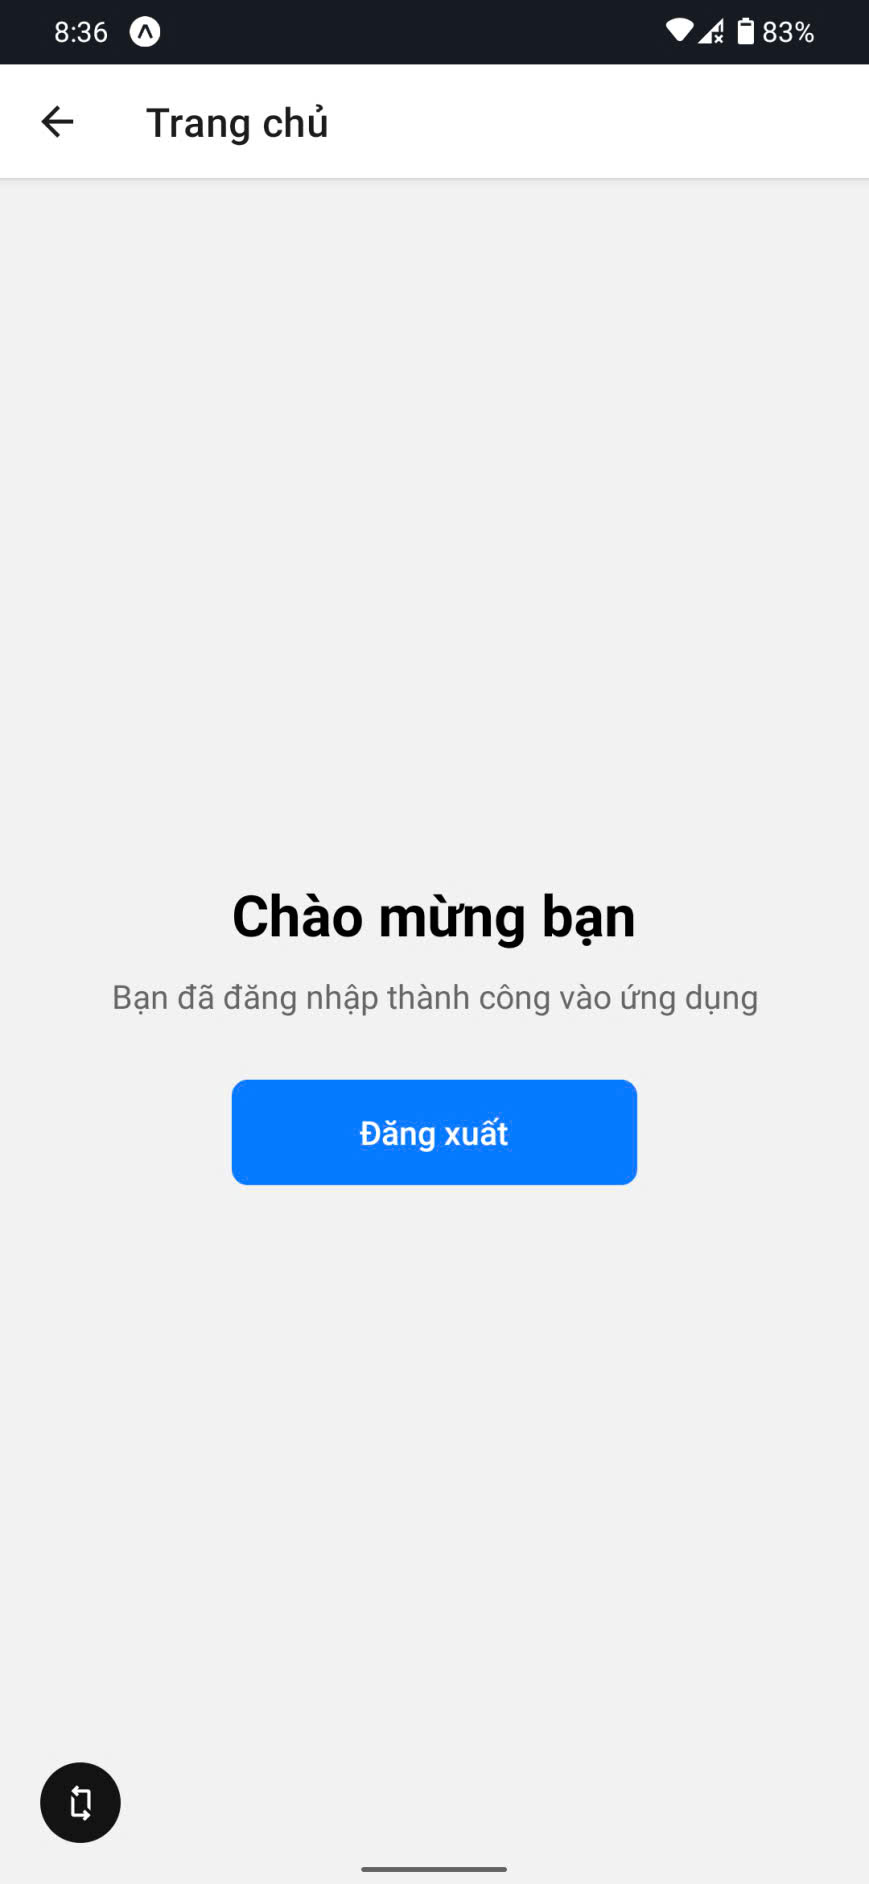
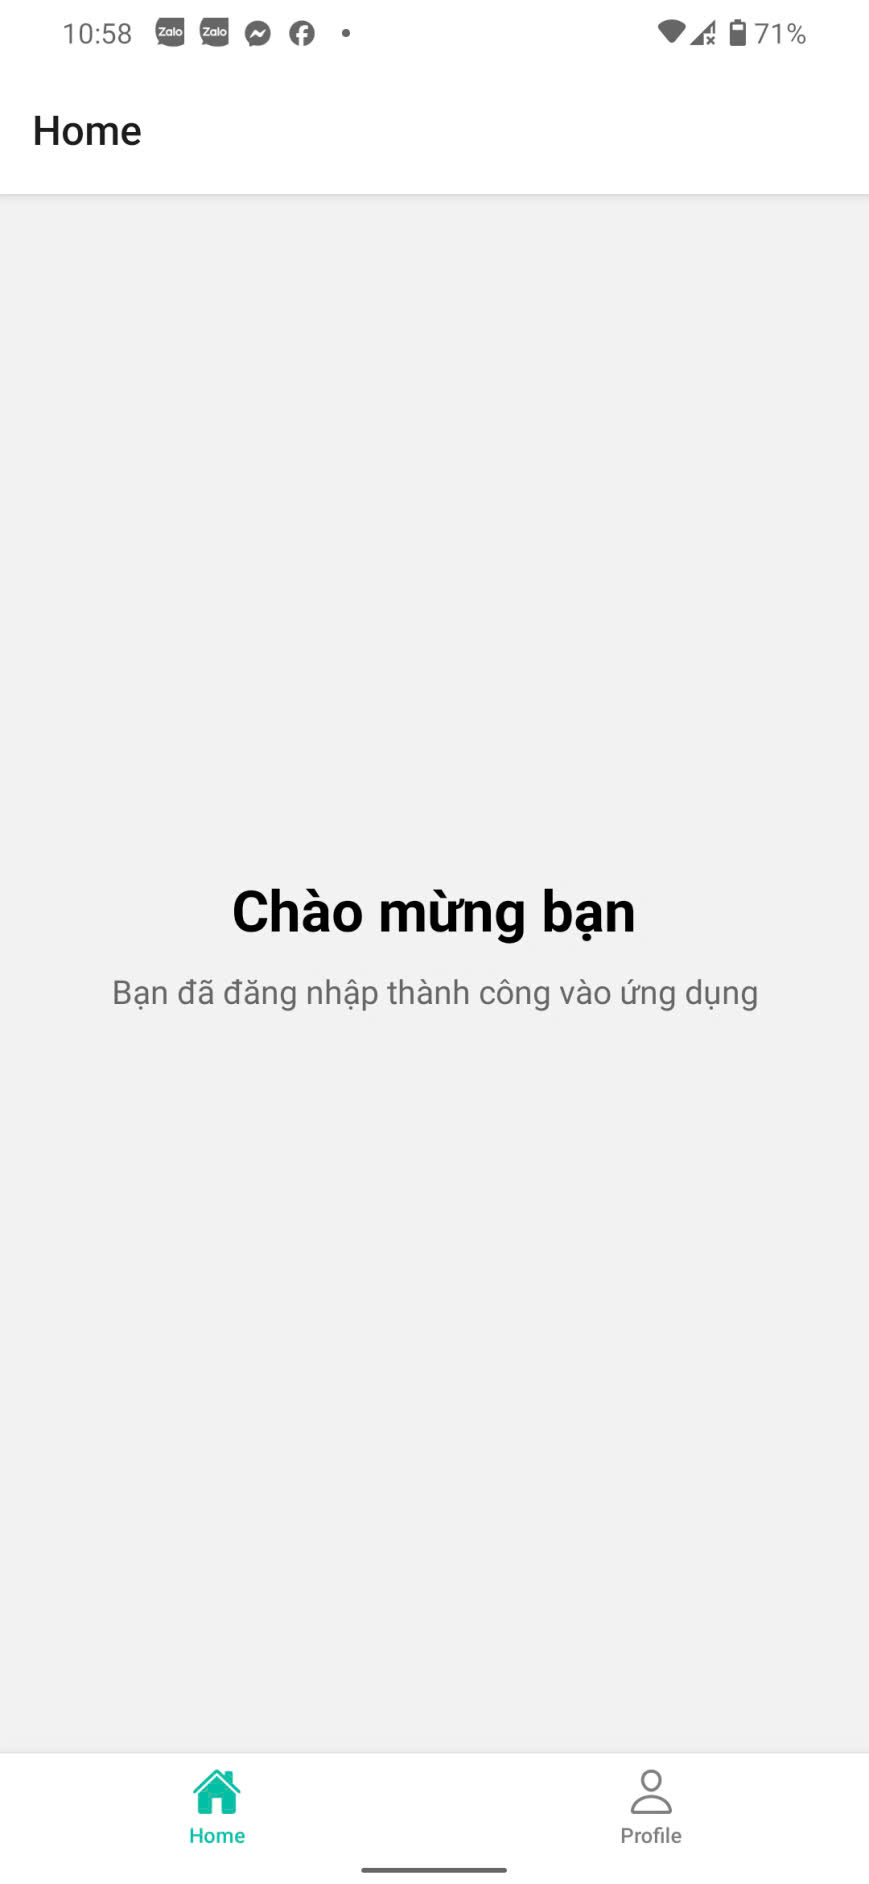
Update Bai8.1

diff --git a/App.js b/App.js
@@ -1,27 +1,53 @@
-import React from 'react';
+import React, { useContext } from 'react';
 import { NavigationContainer } from '@react-navigation/native';
 import { createNativeStackNavigator } from '@react-navigation/native-stack';
 
 import LoginScreen from './screens/LoginScreen';
-import HomeScreen from './screens/HomeScreen';
+import MainTabs from './navigations/MainTabs';
+
+import { AppProvider, AppContext } from './contexts/AppContext';
 
 const Stack = createNativeStackNavigator();
 
-export default function App() {
+function AuthStack() {
+  return (
+    <Stack.Navigator>
+      <Stack.Screen
+        name="Login"
+        component={LoginScreen}
+        options={{ title: "Đăng nhập" }}
+      />
+    </Stack.Navigator>
+  );
+}
+
+function MainStack() {
+  return (
+    <Stack.Navigator>
+      <Stack.Screen
+        name="MainTabs"
+        component={MainTabs}
+        options={{ headerShown: false }}
+      />
+    </Stack.Navigator>
+  );
+}
+
+function RootNavigation() {
+
+  const { isLoggedIn } = useContext(AppContext);
+
   return (
     <NavigationContainer>
-      <Stack.Navigator>
-        <Stack.Screen
-          name="Login"
-          component={LoginScreen}
-          options={{ title: "Đăng nhập" }}
-        />
-        <Stack.Screen
-          name="Home"
-          component={HomeScreen}
-          options={{ title: "Trang chủ" }}
-        />
-      </Stack.Navigator>
+      {isLoggedIn ? <MainStack /> : <AuthStack />}
     </NavigationContainer>
+  );
+}
+
+export default function App() {
+  return (
+    <AppProvider>
+      <RootNavigation />
+    </AppProvider>
   );
 }

diff --git a/navigations/MainTabs.js b/navigations/MainTabs.js
@@ -1,0 +1,47 @@
+import React from "react";
+import { createBottomTabNavigator } from "@react-navigation/bottom-tabs";
+import { Ionicons } from "@expo/vector-icons";
+
+import HomeScreen from "../screens/HomeScreen";
+import ProfileScreen from "../screens/ProfileScreen";
+
+const Tab = createBottomTabNavigator();
+
+export default function MainTabs() {
+  return (
+    <Tab.Navigator
+      screenOptions={({ route }) => ({
+        tabBarIcon: ({ focused, size, color }) => {
+
+          let iconName;
+
+          if (route.name === "HomeScreen") {
+            iconName = focused ? "home" : "home-outline";
+          }
+
+          if (route.name === "ProfileScreen") {
+            iconName = focused ? "person" : "person-outline";
+          }
+
+          return <Ionicons name={iconName} size={size} color={color} />;
+        },
+
+        tabBarActiveTintColor: "#00bfa5",
+        tabBarInactiveTintColor: "gray"
+      })}
+    >
+      <Tab.Screen
+        name="HomeScreen"
+        component={HomeScreen}
+        options={{ title: "Home" }}
+      />
+
+      <Tab.Screen
+        name="ProfileScreen"
+        component={ProfileScreen}
+        options={{ title: "Profile" }}
+      />
+
+    </Tab.Navigator>
+  );
+}

diff --git a/screens/LoginScreen.js b/screens/LoginScreen.js
@@ -1,4 +1,4 @@
-import React, { useState } from 'react';
+import React, { useState, useContext } from 'react';
 import {
   View,
   Text,
@@ -10,8 +10,11 @@ import {
 
 import styles from '../styles';
 import { validatePhone, formatPhone } from '../validate';
+import { AppContext } from '../contexts/AppContext';
 
-export default function LoginScreen({ navigation }) {
+export default function LoginScreen() {
+
+  const { setIsLoggedIn } = useContext(AppContext);
 
   const [phone, setPhone] = useState('');
   const [message, setMessage] = useState('');
@@ -38,7 +41,8 @@ export default function LoginScreen({ navigation }) {
       return;
     }
 
-    navigation.navigate("Home");
+    // Đăng nhập thành công
+    setIsLoggedIn(true);
   };
 
   return (

diff --git a/screens/HomeScreen.js b/screens/HomeScreen.js
@@ -1,8 +1,8 @@
 import React from 'react';
-import { View, Text, TouchableOpacity } from 'react-native';
+import { View, Text } from 'react-native';
 import styles from '../styles';
 
-export default function HomeScreen({ navigation }) {
+export default function HomeScreen() {
   return (
     <View style={styles.homeContainer}>
 
@@ -13,13 +13,6 @@ export default function HomeScreen({ navigation }) {
       <Text style={styles.homeDesc}>
         Bạn đã đăng nhập thành công vào ứng dụng
       </Text>
-
-      <TouchableOpacity
-        style={styles.logoutButton}
-        onPress={() => navigation.navigate("Login")}
-      >
-        <Text style={styles.buttonText}>Đăng xuất</Text>
-      </TouchableOpacity>
 
     </View>
   );

diff --git a/screens/ProfileScreen.js b/screens/ProfileScreen.js
@@ -1,0 +1,28 @@
+import React, { useContext } from "react";
+import { View, Text, TouchableOpacity } from "react-native";
+import styles from "../styles";
+import { AppContext } from "../contexts/AppContext";
+
+export default function ProfileScreen() {
+
+  const { setIsLoggedIn } = useContext(AppContext);
+
+  const handleLogout = () => {
+    setIsLoggedIn(false);
+  };
+
+  return (
+    <View style={styles.homeContainer}>
+
+      <Text style={styles.homeTitle}>Profile</Text>
+
+      <TouchableOpacity
+        style={styles.logoutButton}
+        onPress={handleLogout}
+      >
+        <Text style={styles.buttonText}>Sign Out</Text>
+      </TouchableOpacity>
+
+    </View>
+  );
+}

diff --git a/contexts/AppContext.js b/contexts/AppContext.js
@@ -1,0 +1,14 @@
+import React, { createContext, useState } from "react";
+
+export const AppContext = createContext();
+
+export const AppProvider = ({ children }) => {
+
+  const [isLoggedIn, setIsLoggedIn] = useState(false);
+
+  return (
+    <AppContext.Provider value={{ isLoggedIn, setIsLoggedIn }}>
+      {children}
+    </AppContext.Provider>
+  );
+};

diff --git a/readMe.md b/readMe.md
@@ -1,16 +1,20 @@
-# Bài 7.1: Sử dụng Stack Navigation - React Native
+# Bài 8.1: Sử dụng Tab Navigation + Context API - React Native
 
 ## Thông tin sinh viên
 - Họ và tên: Nguyễn Thanh Tịnh 
 - Mã sinh viên: 23810310439
 
 ## Mô tả
-- Tiếp tục từ bài 6
-- Sử dụng stack navigation để điều hướng đến trang chủ khi login thành công
+- Tiếp tục từ bài 7.1
+- Sử dụng Tab navigation tạo thanh điều hướng ở dưới màn hình
+- Sử dụng Context API tạo biến toàn cục để mọi screen đều truy cập được
 
 ## Hình ảnh kết quả chạy
-### Hình ảnh Login
+### Hình ảnh LoginScreen
 ![Kết quả chạy](./assets/loginscreen.jpg)
 
-### Hình ảnh Home
-![Kết quả chạy](./assets/homescreen.jpg)
+### Hình ảnh HomeScreen
+![Kết quả chạy](./assets/HomeScreen.jpg)
+
+### Hình ảnh ProfileScreen
+![Kết quả chạy](./assets/ProfileScreen.jpg)
